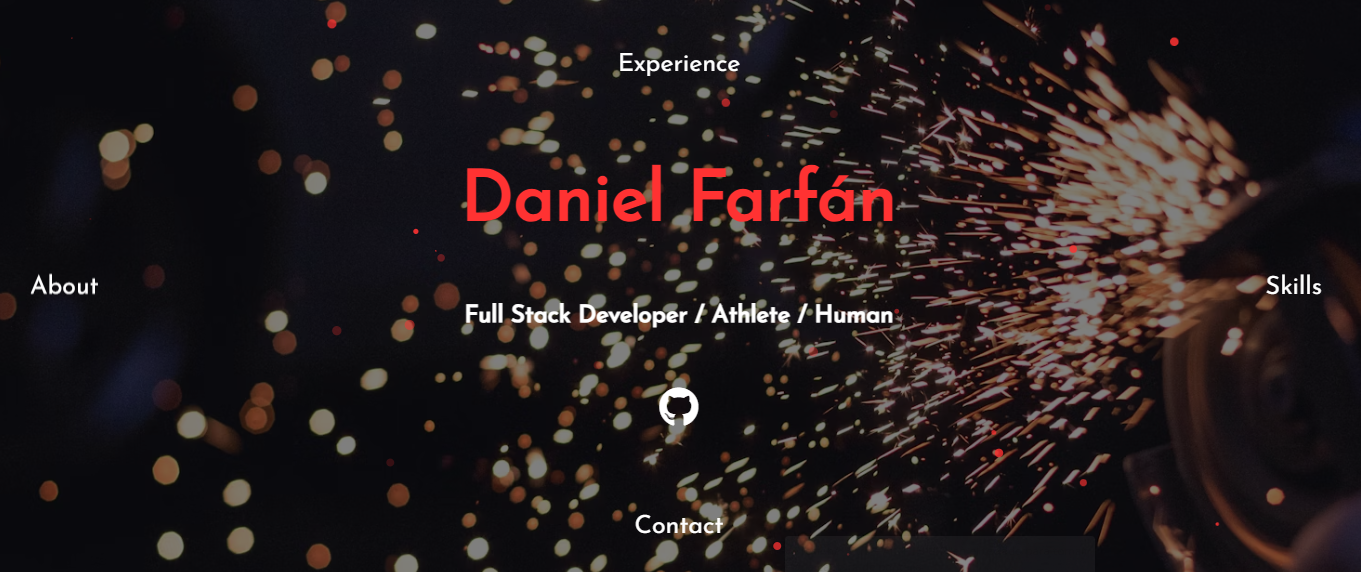
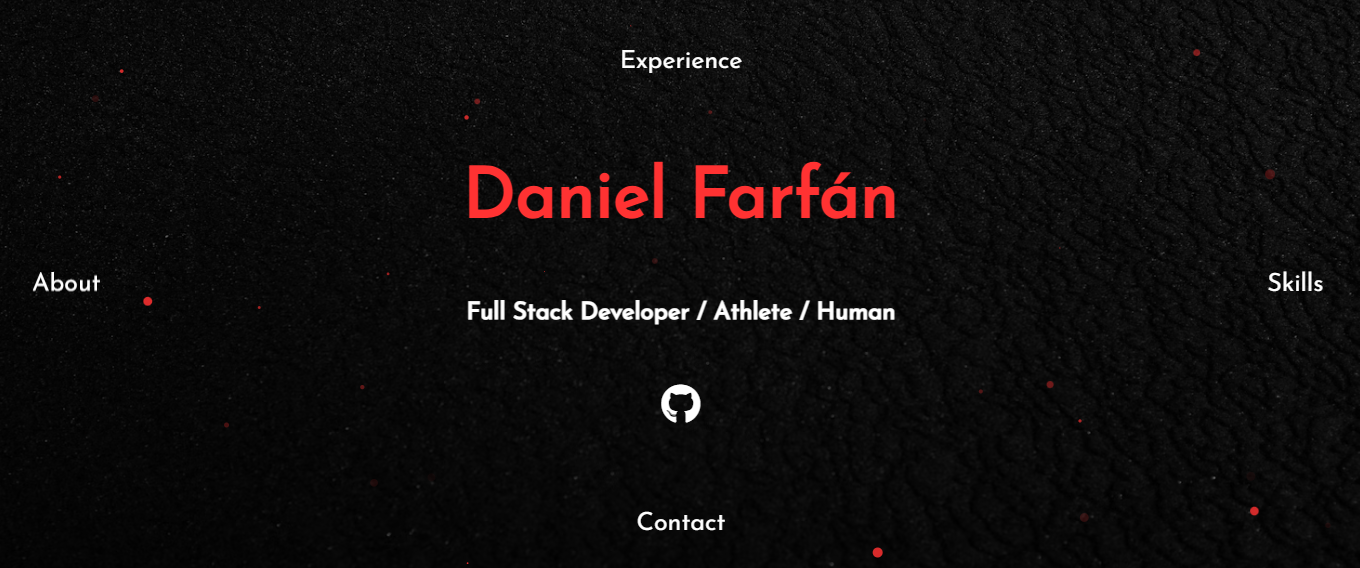
Fix Background About Shorted Visual fix for experience

diff --git a/Index.html b/Index.html
@@ -51,82 +51,68 @@
     </div>
     <div id="projects_container" class="container">
         <div onclick="closeprojects()"><i class="fas fa-angle-double-up"></i></div>
-        <h1>Experience</h1>
+        <h1>My Experience</h1>
         <section>
             <button class="btn_one"><a href="./assets/Resume.pdf" target="_blank"
-                                       style="color: inherit; text-decoration: none">View
-                Resume</a></button>
+                                       style="color: inherit; text-decoration: none">Download Resume</a></button>
             <ul>
                 <div class="project_card">
                     <div class="project_info">
+                        <h3>Seguros Azteca - Support Manager and Senior Developer</h3>
                         <div style="display: flex; justify-content: center;">
                             <img src="https://upload.wikimedia.org/wikipedia/commons/f/fc/Flag_of_Mexico.svg" alt="Mexico Flag" width="100" height="75">
                         </div>
-                        <h3>Seguros Azteca</h3>
-                        <p>As Support Manager and Senior Developer of a Producction Support Team of 4 developers and 1 QA specialist,
-                            we handled incidents resolution and development
-                            of enhancements for web services and a web insurance application for Seguros Azteca.</p>
+                        <h3>Jan 2023 / March 2024</h3>
                     </div>
                 </div>
-
+                <hr>
                 <div class="project_card">
                     <div class="project_info">
+                        <h3>Rimac Seguros - Java Senior Developer</h3>
                         <div style="display: flex; justify-content: center;">
                             <img src="https://upload.wikimedia.org/wikipedia/commons/c/cf/Flag_of_Peru.svg" alt="Peru Flag" width="100" height="75">
                         </div>
-                        <h3>Rimac Seguros</h3>
-                        <p> Attended new requirements, stabilization process and implemented new feature for an Insurance Company in Lima.</p>
+                        <h3>Dec 2019 / Dec 2022</h3>
                     </div>
                 </div>
-
+                <hr>
                 <div class="project_card">
                     <div class="project_info">
+                        <h3>Interseguro - Support Java Developer</h3>
                         <div style="display: flex; justify-content: center;">
                             <img src="https://upload.wikimedia.org/wikipedia/commons/c/cf/Flag_of_Peru.svg" alt="Peru Flag" width="100" height="75">
                         </div>
-                        <h3>Interseguro</h3>
-                        <p> I was part of the Support Team for process optimization,
-                            enhance batch process performance, database optimization and fixing some business logic bugs.</p>
+                        <h3>  - May 2018 / Nov 2019</h3>
                     </div>
                 </div>
+                <hr>
                 <div class="project_card">
                     <div class="project_info">
+                        <h3>RedLink - Java Developer</h3>
                         <div style="display: flex; justify-content: center;">
                             <img src="https://upload.wikimedia.org/wikipedia/commons/1/1a/Flag_of_Argentina.svg" alt="Argentina Flag" width="100" height="75">
                         </div>
-                        <h3>RedLink</h3>
-                        <p> As Java Developer I worked in development of SOAP services for communications between Private Banking
-                            and Government and customized the Home Banking web application for the request of
-                            transfers through Immediate Debit.</p>
+                        <h3>Jan 2018 / Apr 2018</h3>
                     </div>
                 </div>
+                <hr>
                 <div class="project_card">
                     <div class="project_info">
+                        <h3>Matrix CPM Solutions - SpringBoot Developer</h3>
                         <div style="display: flex; justify-content: center;">
                             <img src="https://upload.wikimedia.org/wikipedia/commons/2/21/Flag_of_Colombia.svg" alt="Colombia Flag" width="100" height="75">
                         </div>
-                        <h3>Matrix CPM Solutions</h3>
-                        <p> Development and implement web services for sales data download
-                            management and synchronous and asynchronous operations to send all this
-                            information to Tableau for data analysis.</p>
+                        <h3>Jan 2017 / March 2017</h3>
                     </div>
                 </div>
+                <hr>
                 <div class="project_card">
                     <div class="project_info">
+                        <h3>Beconsult - Software Developer</h3>
                         <div style="display: flex; justify-content: center;">
                             <img src="https://upload.wikimedia.org/wikipedia/commons/0/06/Flag_of_Venezuela.svg" alt="Venezuela Flag" width="100" height="75">
                         </div>
-                        <h3>Beconsult</h3>
-                        <p> Analysis of functional definitions for Payroll specifications.
-                            Development of a commodity system for the import and export declaration.
-                            Development of a purchase order and supply system.
-                            Web application design for control and management of IP calls.
-                            Development of desktop app for the management and control of containers of
-                            shipping lines.
-                            Development of an XML parser for processing data of a business documents
-                            interchange (EDI).
-                            Implement a private network (intranet) with a CMS for administrative activities.
-                            Develop interface between HR (Java) and Payroll (RPG).</p>
+                        <h3>Jan 2008 / Jan 2017</h3>
                     </div>
                 </div>
             </ul>
@@ -215,25 +201,10 @@
                 I am Daniel, a multifaceted man also a son, a father, a hybrid athlete, a Christian, an mountaineer,
                 and an amateur photographer. But among my many roles, It's software development that I want to talk about.
             </p>
-            <p2>
-                Think back to a bygone era, when the pinnacle of technology was the 5 1/4-inch floppy disk; during a nostalgic event,
-                an adult asked me this question: "What do you want to being for your future?"
-            </p2>
             <p>
-                With confidence, I declared, “I will look like a computer specialist!” and life, as it often happens,
-                developed in its own unpredictable way.
-            </p>
-            <p2>
-                Was into 2007, when I proudly received my Technician degree in Informatic.
-            </p2>
-            <p>
-                Today, more than 15 years later, my journey as a software developer has been an exciting roller coaster.
-                Along the way, I enjoyed the power to learn about everthing and then transform ideas into tangible realities.
-            </p>
-            <p2>
                 I believe in the transformative power of technology to empower people to achieve their wildest dreams.
                 So if you're looking for a passionate, experienced software developer, look no further! you are into the right way.
-            </p2>
+            </p>
             <p>As a software developer, I feel privileged to play to one line of code at a time.</p>
 
             <br> Made in <a href="https://es.wikipedia.org/wiki/Venezuela"><img src="https://upload.wikimedia.org/wikipedia/commons/0/06/Flag_of_Venezuela.svg" alt="Venezuela Flag" width="20" height="15"></a> Living in <a href="https://es.wikipedia.org/wiki/México"><img src="https://upload.wikimedia.org/wikipedia/commons/f/fc/Flag_of_Mexico.svg" alt="Mexico Flag" width="20" height="15"></a> Thinking about 🌍

diff --git a/index.css b/index.css
@@ -3,7 +3,7 @@
 body {
     padding:0px;
     margin:0px;
-    background:linear-gradient(0deg,rgba(0,0,0,0.5),rgba(0,0,0,0.5)),url("https://images.unsplash.com/reserve/7vjJbdDRga27ApDoYicw_Sparks.jpg?q=80&w=1470&auto=format&fit=crop&ixlib=rb-4.0.3&ixid=M3wxMjA3fDB8MHxwaG90by1wYWdlfHx8fGVufDB8fHx8fA%3D%3D") center center;
+    background:linear-gradient(0deg,rgba(0,0,0,0.5),rgba(0,0,0,0.5)),url("https://images.unsplash.com/photo-1550684376-efcbd6e3f031?q=80&w=1470&auto=format&fit=crop&ixlib=rb-4.0.3&ixid=M3wxMjA3fDB8MHxwaG90by1wYWdlfHx8fGVufDB8fHx8fA%3D%3D") center center;
     background-size:cover;
     width:100vw;
     height:100vh;
@@ -234,7 +234,7 @@ body {
 }
 
 .container h3 {
-    font-size:40px;
+    font-size:30px;
     text-align: center;
 }
 .container img{
@@ -242,11 +242,11 @@ body {
 }
 .container p {
     font-size:21px;
+    text-align: justify;
 }
-
 .container p2 {
-    font-size:21px;
-    color: #e30000;
+    font-size:50px;
+    text-align: center;
 }
 .btn_one {
     font-size:18px;
@@ -353,7 +353,7 @@ body {
         width:90%;
     }
     #menu {
-        display:inline-block;
+        display:inline-flex;
     }
     #onlywide {
         display:none !important;
